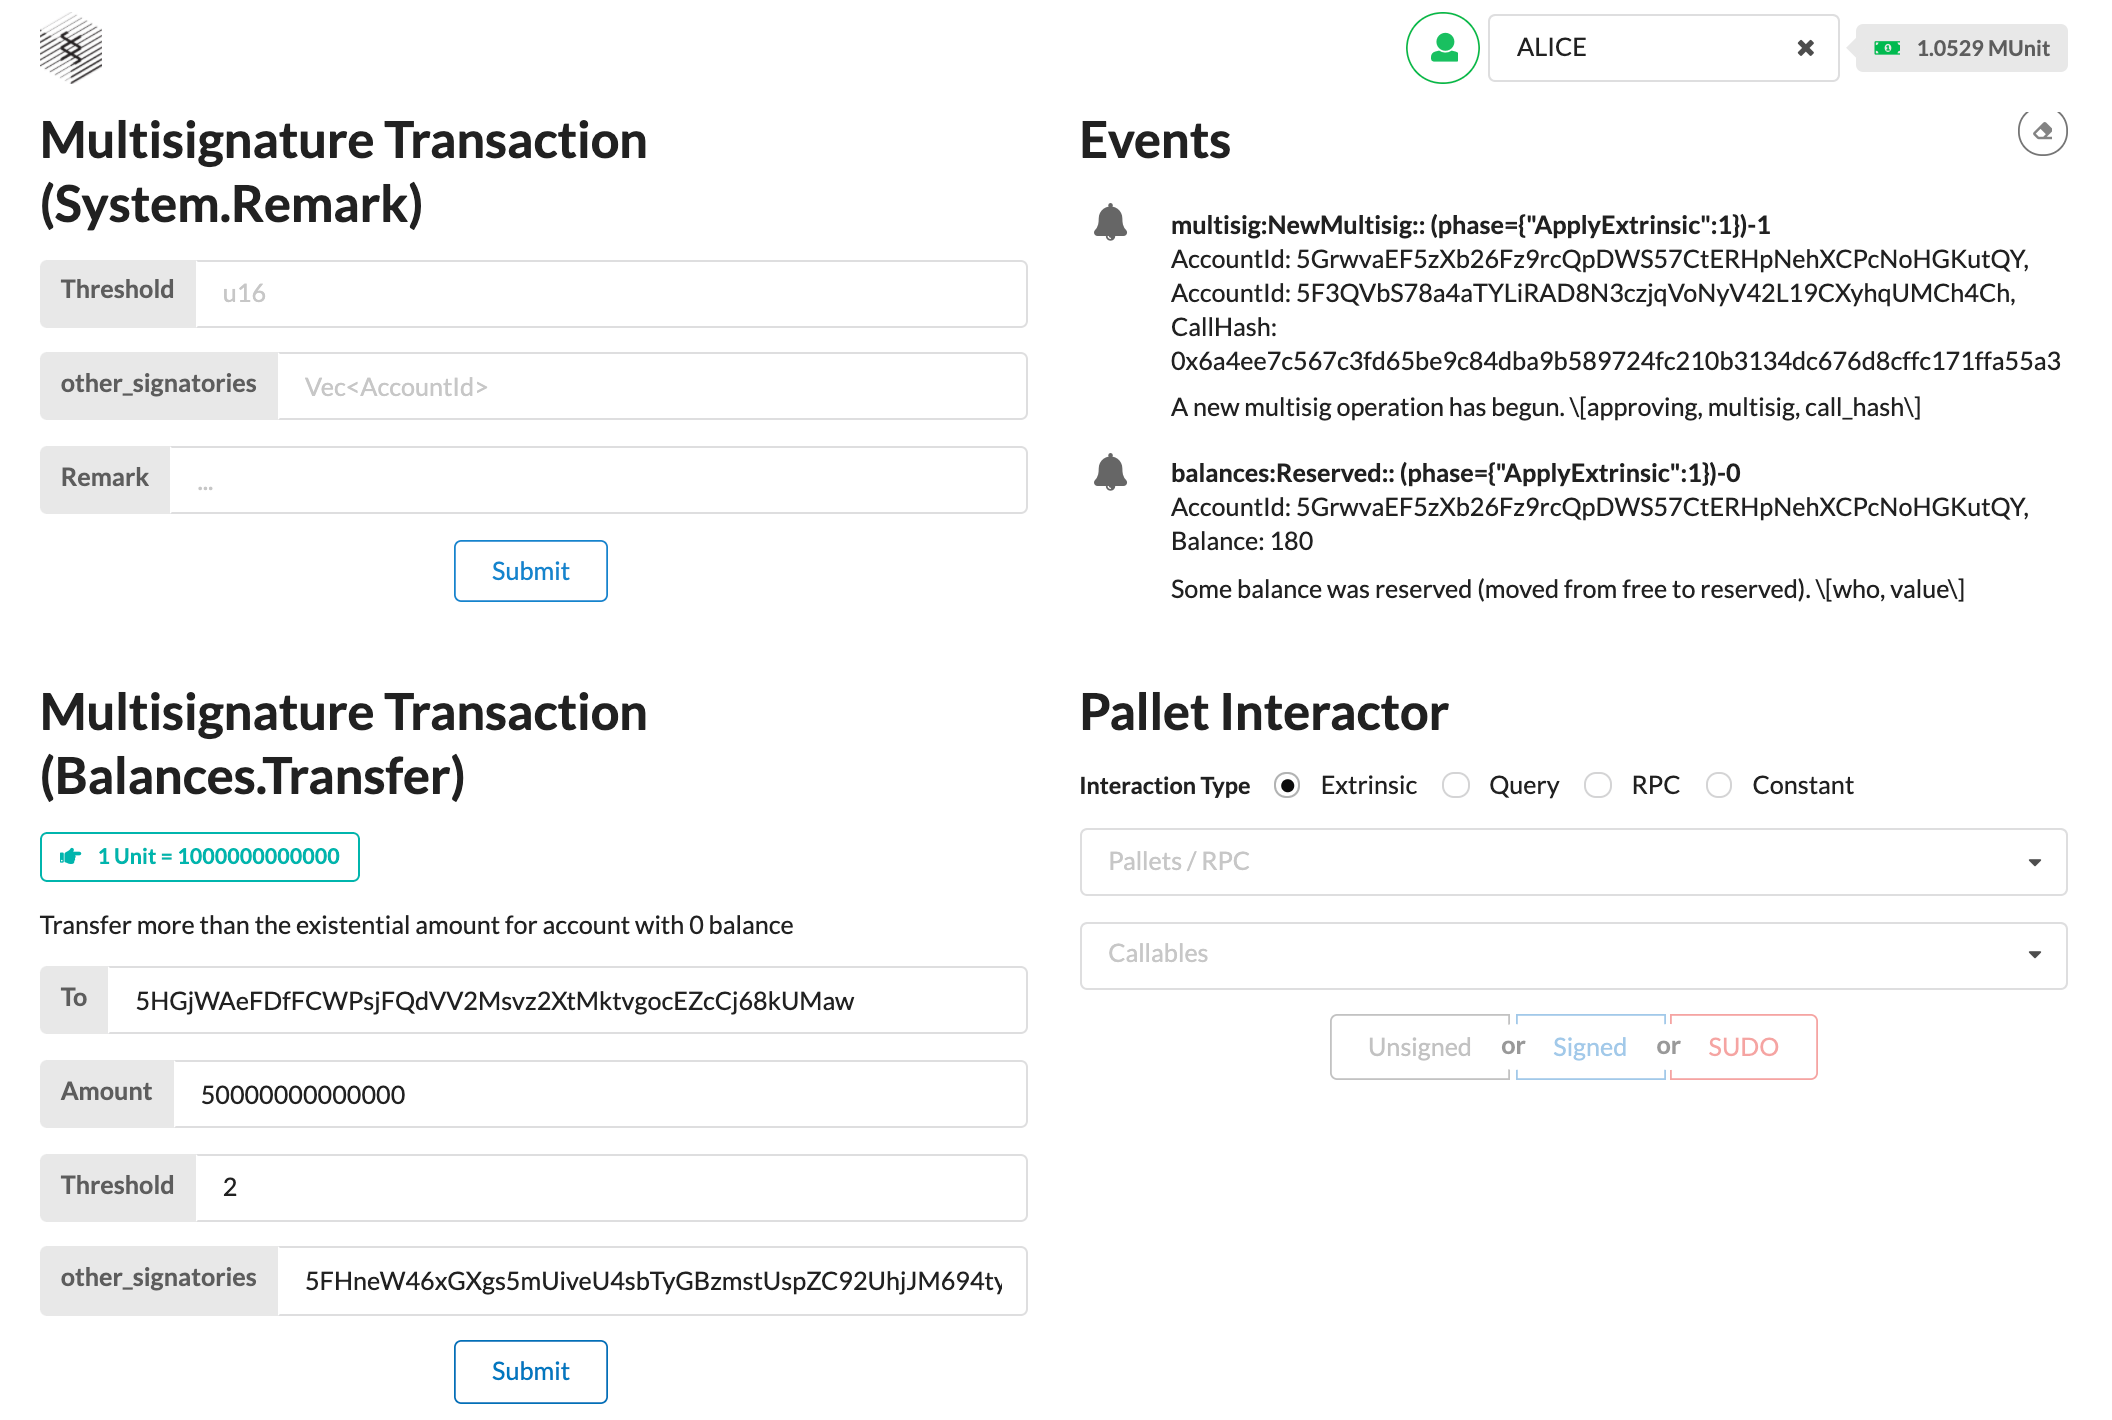
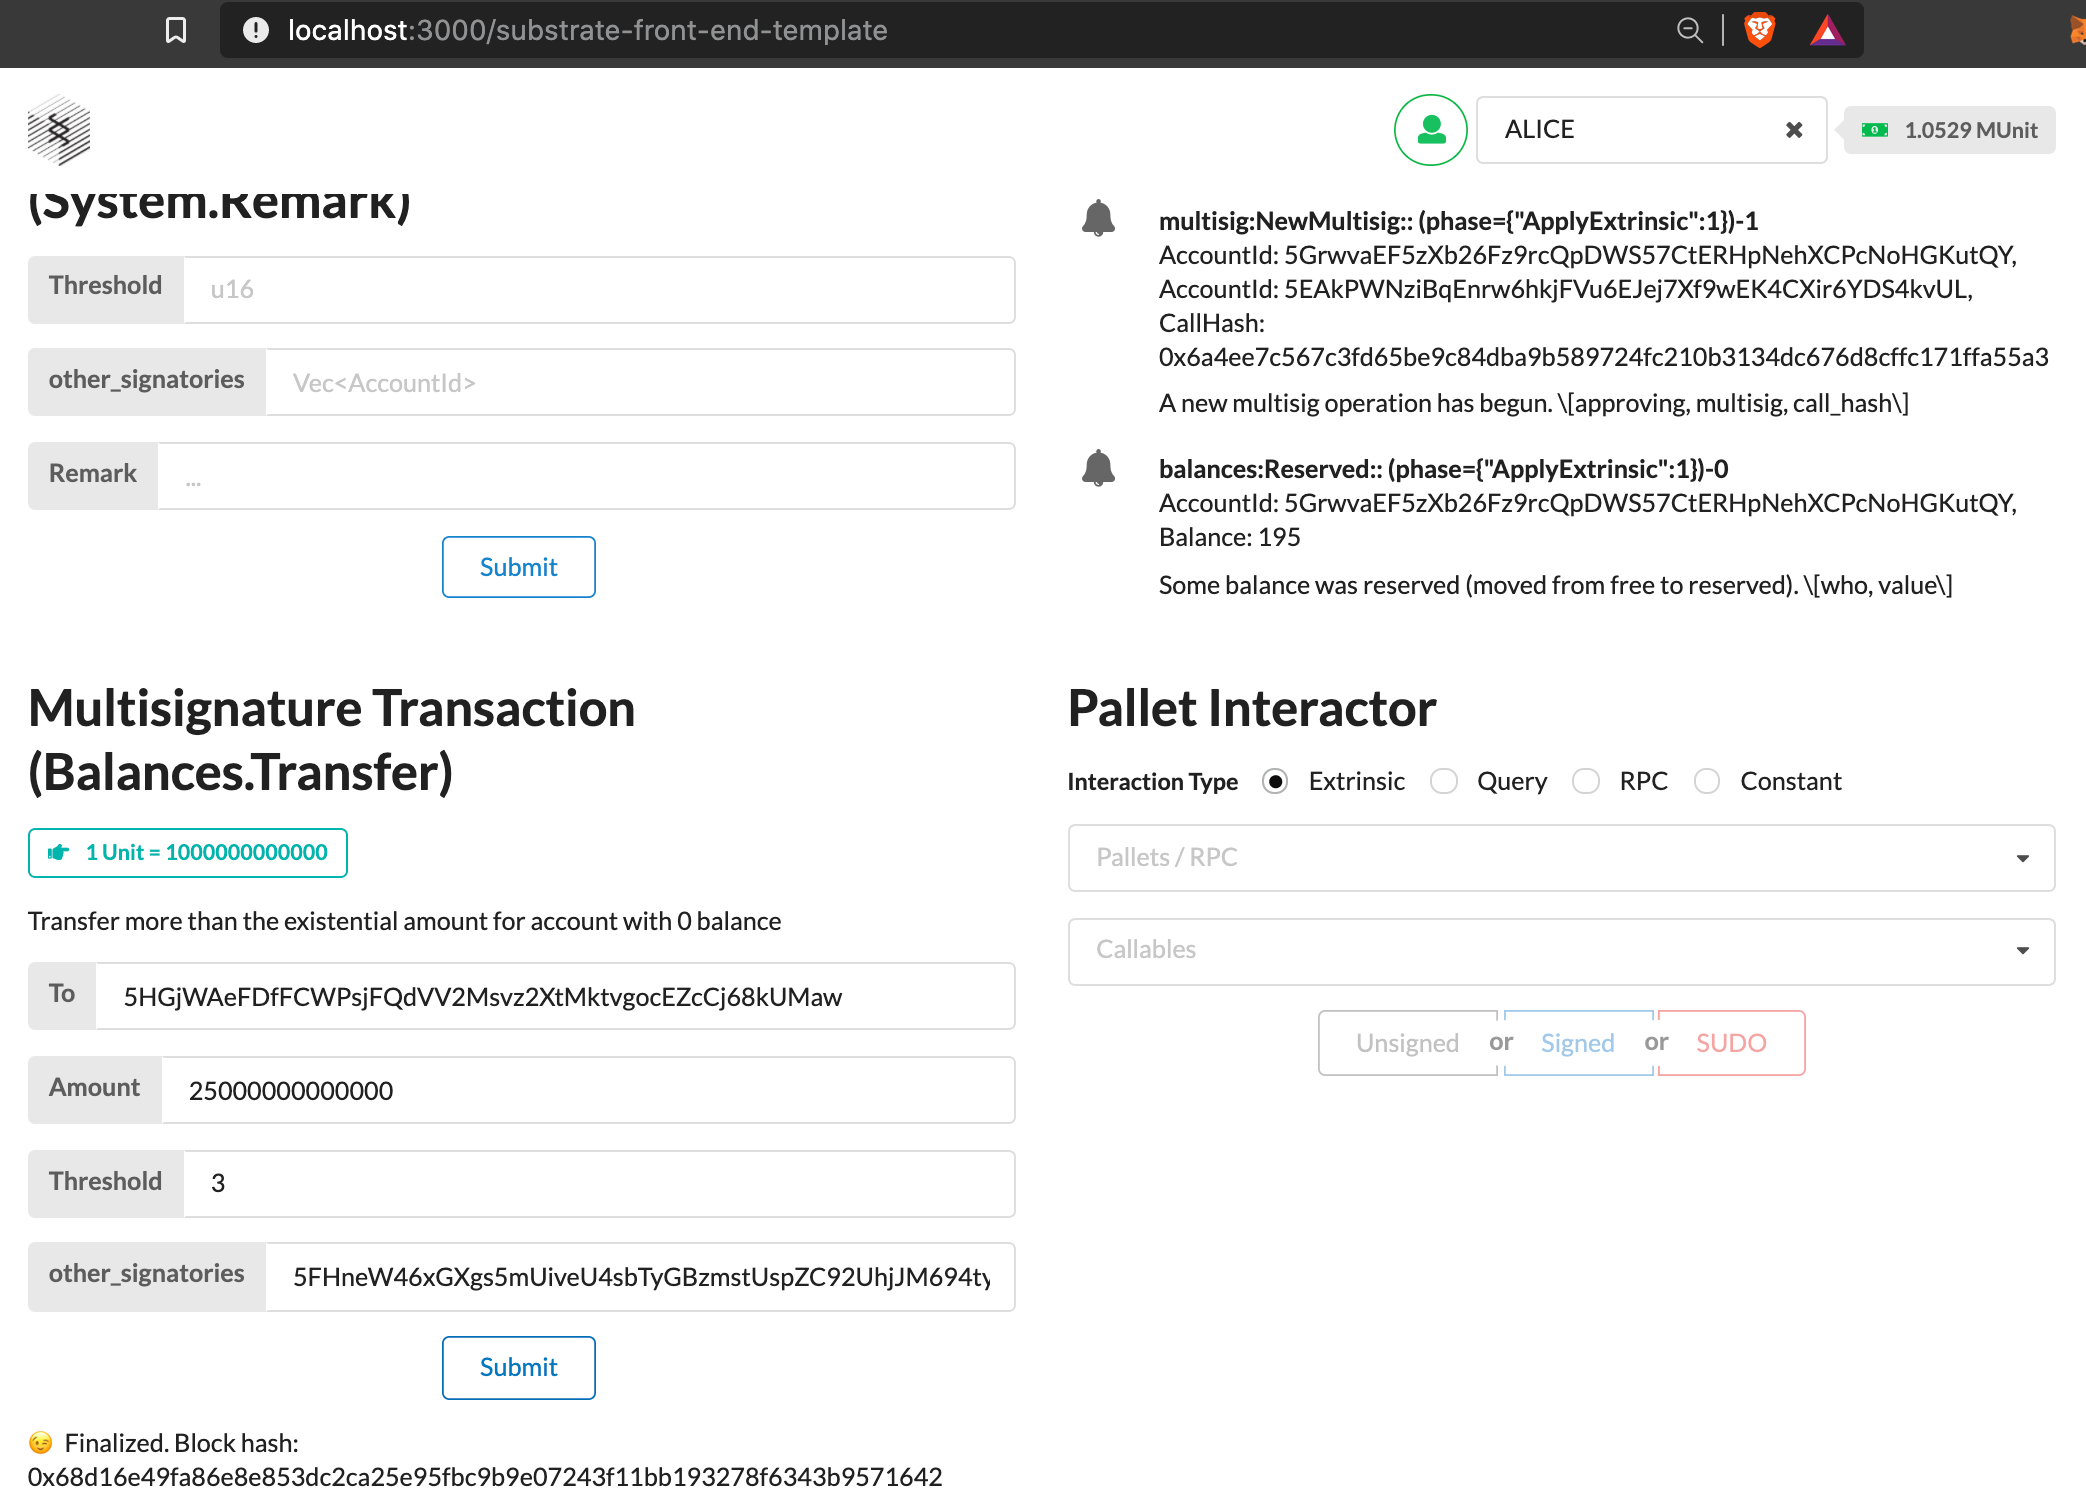
update screenshots

diff --git a/intermediate/frame-multisig/readme.md b/intermediate/frame-multisig/readme.md
@@ -4,17 +4,17 @@
   <img src="img/multisig_tx_remark.png">
 </p>
 
+## Multisig system.remark TX Block
+<p align="center">
+  <img src="img/multisig_tx_remark_block.png">
+</p>
+
 ## Multisig balances.transfer TX
 <p align="center">
   <img src="img/multisig_tx_transfer.png">
 </p>
 
-## Multisig Acc
+## Multisig balances.transfer TX Block
 <p align="center">
-  <img src="img/multisig_acc.png">
-</p>
-
-## Multisig Approval
-<p align="center">
-  <img src="img/multisig_approval.png">
+  <img src="img/multisig_tx_transfer_block.png">
 </p>
